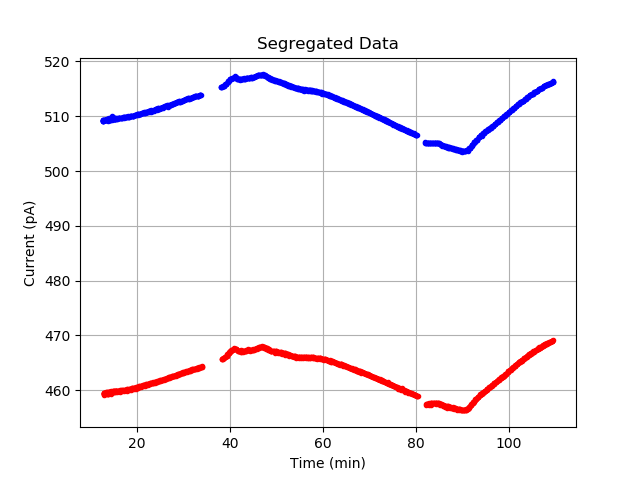
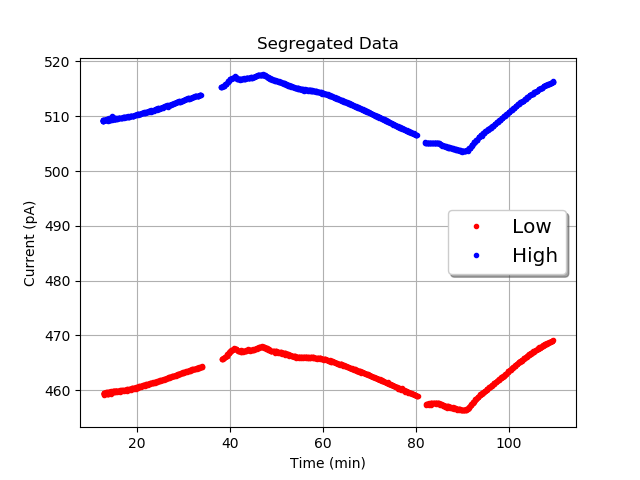
Add files via upload
Bug fixes and more extensive comments.

Changed region(s): [[0.6875, 0.4375, 0.9062, 0.5938], [0.7188, 0.4688, 0.75, 0.5]]

diff --git a/main.py b/main.py
@@ -29,10 +29,11 @@ def dataImport(inputCol1, inputCol2, startRow, delim, fileName):
     return (timeIn, currentIn)
 
 def dataSelector(selectRange1, selectRange2, selectRange3):
-    """ The input data has 3 parts - initial and final baselines and the biomolecule binding portions. 
+    """ The input data has 3 parts - initial and final baselines and the biomolecule binding portion. 
     Some portions of the data need to be excluded from the analysis, such as the initial drift in the baseline,
-    and the disturbances introduced during sample changing, or any adjustment to the system (the measurement is typically not
-    stopped during this as the pause in the measurement may introduce additional drift after it is resumed). """
+    and the disturbances introduced during the manual buffer change, or any adjustment to the system (the measurement is typically not
+    stopped during this as the pause in the measurement may introduce additional drift after it is resumed). This data selection is 
+    done manually in this function by using the array indices from the input data """
 
     timeSelect = np.concatenate([timeIn[selectRange1[0]:selectRange1[1]:], timeIn[selectRange2[0]:selectRange2[1]:], timeIn[selectRange3[0]:selectRange3[1]:]])
     currentSelect = np.concatenate([currentIn[selectRange1[0]:selectRange1[1]:], currentIn[selectRange2[0]:selectRange2[1]:], currentIn[selectRange3[0]:selectRange3[1]:]])
@@ -40,14 +41,16 @@ def dataSelector(selectRange1, selectRange2, selectRange3):
 
 def noiseRemover(timeSelect, currentSelect, intraPulseNoise, interPulseNoise):
     """ Our experiments involve a current pulse alternating between two values of current. There are 2 major types of noise that we encounter:
-    one that occurs due to the background , intraPulseNoise; and one that occurs during te switch between currents, interPulseNoise. Both these 
-    known types of noise need to be minimised for the analyis. """
+    one that occurs due to the background, intraPulseNoise; and one that occurs during the switch between currents, interPulseNoise. Both these 
+    known types of noise need to be minimised before signal extraction. The variables corresponding to these two types of noise represent a 
+    number that must be tweaked to remove an optimal amount of noise without affecting data"""
 
     timeRefine = []
     currentRefine = []
     for i in range(1,len(timeSelect)-1):
         relativeForwardChange = (currentSelect[i]-currentSelect[i-1])/currentSelect[i]
         relativeBackwardChange = (currentSelect[i]-currentSelect[i+1])/currentSelect[i]
+        # a data point is considered as interPulseNnoise by comparing it to the two adjacent data points
         if relativeForwardChange*relativeBackwardChange < intraPulseNoise**2 and relativeForwardChange*relativeBackwardChange > -1*interPulseNoise**2:
             timeRefine.append(timeSelect[i])
             currentRefine.append(currentSelect[i])
@@ -58,7 +61,8 @@ def noiseRemover(timeSelect, currentSelect, intraPulseNoise, interPulseNoise):
 def dataSegregator(timeRefine, currentRefine, switch_s, thresh):
     """ The input data is made up of a current pulse that alternates between a lower and a higher value, and the gap between 
     these two values changes as the biomolecule binds. It is necessary to segregate the input data into a higher and a 
-    lower set of values for tracing this change. """
+    lower set of values for tracing this change. This function segregates the data into 'low' and 'high' categories. This is done 
+    by specifying a 'threshold' to discriminate between these types of data. This threshold is set manually after inspecting the raw data"""
 
     timeLow = []
     timeHigh = []
@@ -72,6 +76,8 @@ def dataSegregator(timeRefine, currentRefine, switch_s, thresh):
         else:
             timeHigh.append(timeRefine[i])
             currentHigh.append(currentRefine[i])
+
+        # flip the switch when the difference exceeds the threshold
         if (currentRefine[i+1]-currentRefine[i]) > thresh:
             switch_s=1
         elif (currentRefine[i+1]-currentRefine[i]) < (-1*thresh):
@@ -80,13 +86,13 @@ def dataSegregator(timeRefine, currentRefine, switch_s, thresh):
 
 def pulseAveraging(time, current, pulseWidth):
     """ Onc the data has been segregated, we are left with groups of data in each set of higher and lower current values. It is necessary to 
-    replace each group with an average value over that group. This produces two sets of such averaged values corresponding to the lower and 
+    replace each group with an average value over that group for fitting in the following step. This produces two sets of such averaged data corresponding to the lower and 
     higher current. """
 
     counter=0.0
-    timePulseSum = 0.0
+    timePulseSum = 0.0          # stores the sum of data for each pulse
     currentPulseSum = 0.0
-    timeAvg = []
+    timeAvg = []                # stores the average of each pulse
     currentAvg = []
 
     for i in range(0, len(time)-1):
@@ -106,84 +112,117 @@ def pulseAveraging(time, current, pulseWidth):
     return timeAvg, currentAvg
 
 def piecewiseNonLinearInterp(fitOrder, fitWindow, fitRange, timeLowAvg, currentLowAvg, timeHighAvg, currentHighAvg, startCheck):
-    """ After obtaining the set of pulse-averaged higher and lower currents, it is necessary to obtain teir difference fr calculating the signsl. 
+    """ After obtaining the set of pulse-averaged higher and lower currents, it is necessary to obtain their difference for calculating the signal. 
     However, the two cannot be simply subtracted from each other directly. Due to a time gap between the adjacent points corresponding to the 
-    lower and higher values of current, interpolation needs to e used to fill up the alternating gap in both the higher and lower currents. 
-    Only then can each data point in the lower current has a corresponding point in the higher current (and vice versa) between which, 
+    lower and higher values of current, interpolation needs to be used to fill up the alternating gap in both the higher and lower currents. 
+    Only then does each data point in the lower current have a corresponding point in the higher current, and vice versa, between which 
     the difference cn be taken. """
     
     timeFit = []
-    currentLowFit = []
+    currentLowFit = []                  # stores the fitted data
     currentHighFit = []
-    xRange = []
+    xRange = []                         # contains the window of data to be fitted in each cycle
     yRange = []
-    P = []
+    P = []                              # stores the fitting parameters
+    init_pt = int(np.ceil(fitWindow/2)) # initial point for each piece-wise fit
 
     if startCheck == 0:
         for i in range(0, fitRange-fitWindow):
-            timeFit.append(timeLowAvg[i+2])
-            currentLowFit.append(currentLowAvg[i+2]) # do something about this 2
+            # set the fitting center in the currentLow array
+            timeFit.append(timeLowAvg[i+init_pt])
+            currentLowFit.append(currentLowAvg[i+init_pt]) 
+
+            # initialise/reset the fitting variables
             xRange[:] = []
             yRange[:] = []
             del P
+
+            # store the range of currentHigh data to be fitted
             for j in range(0, fitWindow):
                 xRange.append(timeHighAvg[i+j])
                 yRange.append(currentHighAvg[i+j])
+
+            # fit the currentHigh data to the specified order
             P = np.polyfit(xRange, yRange, fitOrder)
             currentHighFit.append(np.polyval(P,timeFit[len(timeFit)-1]))
-            currentHighFit.append(currentHighAvg[i+2])
-            timeFit.append(timeHighAvg[i+2])
+
+            # move the fitting center to the adjacent point in the currentHigh
+            currentHighFit.append(currentHighAvg[i+init_pt])
+            timeFit.append(timeHighAvg[i+init_pt])
+
+            # reset the fitting variables
             xRange[:] = []
             yRange[:] = []
             del P
+
+            # store the range of currentLow data to be fitted
             for j in range(0, fitWindow):
                 xRange.append(timeLowAvg[i+j])
                 yRange.append(currentLowAvg[i+j])
-    
+
+            # fit the currentLow data to the specified order
             P = np.polyfit(xRange, yRange, fitOrder)
             currentLowFit.append(np.polyval(P, timeFit[len(timeFit)-1]))
     
     else:
         for i in range(0, fitRange-fitWindow):
-            timeFit.append(timeHighAvg[i+2])
-            currentHighFit.append(currentHighAvg[i+2])
+            # set the fitting center in the currentHigh array
+            timeFit.append(timeHighAvg[i+init_pt])
+            currentHighFit.append(currentHighAvg[i+init_pt])
+
+            # initialise/reset the fitting variables
             xRange[:] = []
             yRange[:] = []
             del P
+
+            # store the range of currentLow data to be fitted
             for j in range(0, fitWindow):
                 xRange.append(timeLowAvg[i+j])
                 yRange.append(currentLowAvg[i+j])
 
+            # fit the currentLow data to the specified order
             P = np.polyfit(xRange, yRange, fitOrder)
             currentLowFit.append(np.polyval(P,timeFit[len(timeFit)-1]))
-            currentLowFit.append(currentLowAvg[i+2])
-            timeFit.append(timeLowAvg[i+2])
+
+            # move the fitting center to the adjacent point in currentLow
+            currentLowFit.append(currentLowAvg[i+init_pt])
+            timeFit.append(timeLowAvg[i+init_pt])
+
+            # reset the fitting variables
             xRange[:] = []
             yRange[:] = []
             del P
+
+            # store the range of currentHigh data to be fitted
             for j in range(0, fitWindow):
                 xRange.append(timeHighAvg[i+j+1])
                 yRange.append(currentHighAvg[i+j+1])
             
+            # fit the currentHigh data to the specified order
             P = np.polyfit(xRange, yRange, fitOrder)
             currentHighFit.append(np.polyval(P, timeFit[len(timeFit)-1]))
+
     a = np.array(currentLowFit)
     return timeFit, currentLowFit, currentHighFit
 
 def extractSignal (timeFit, currentLowFit, currentHighFit):
-    """ Extract the deltaI and finally the chage in zeta potential, which constitutes to the signal from the binding of 
+    """ Extract the deltaI and finally the change in zeta potential, which constitutes the signal from the binding of 
     the biomolecule """
     currentLowFit = np.array(currentLowFit)
     currentHighFit = np.array(currentHighFit)
     delta_I = currentHighFit - currentLowFit
 
-    visc = 0.8 * 10**-3
-    leng = 5.4 * 10**-2
-    area = 490 * 10**-12
-    perm = 681.85 * 10**-12
-    delta_P = (3-1.5) * 10**5
+    # parameters for calculation of zeta potential, all in SI units
+    visc = 0.8 * 10**-3         # viscosity of PBS buffer
+    leng = 5.4 * 10**-2         # capillary length
+    area = 490 * 10**-12        # inner surface area of the capillary
+    perm = 681.85 * 10**-12     # permittivity of PBS buffer
+    delta_P = (3-1.5) * 10**5   # pressure difference
+
+    # zeta potential formula
     zetaPotential =10**-9*delta_I*leng*visc/(area*perm*delta_P)
 
+    # Using Savitzky-Golay filter to remove high-frequency noise
     filtZeta = sp.savgol_filter(zetaPotential, 19, 3)
     return delta_I, filtZeta
 
@@ -264,6 +303,7 @@ plt.savefig('3_refined_data')
 
 plt.figure(5)
 plt.plot(timeLow, currentLow,'r.', timeHigh, currentHigh, 'b.')
+plt.legend(('Low', 'High'), loc='best', shadow=True, fontsize='x-large')
 plt.title('Segregated Data')
 plt.ylabel('Current (pA)')
 plt.xlabel('Time (min)')
@@ -272,6 +312,7 @@ plt.savefig('4_segregated_data')
 
 plt.figure(6)
 plt.plot(timeLowAvg, currentLowAvg,'.', timeHighAvg, currentHighAvg, '.')
+plt.legend(('Low', 'High'), loc='best', shadow=True, fontsize='x-large')
 plt.title('Averaged over each pulse')
 plt.ylabel('Current (pA)')
 plt.xlabel('Time (min)')
@@ -280,6 +321,7 @@ plt.savefig('5_averaged_data')
 
 plt.figure(7)
 plt.plot(timeFit, currentLowFit,'o-', timeFit, currentHighFit, 'o-')
+plt.legend(('Low', 'High'), loc='best', shadow=True, fontsize='x-large')
 plt.title('Fitted piecewise')
 plt.ylabel('Current (pA)')
 plt.xlabel('Time (min)')
